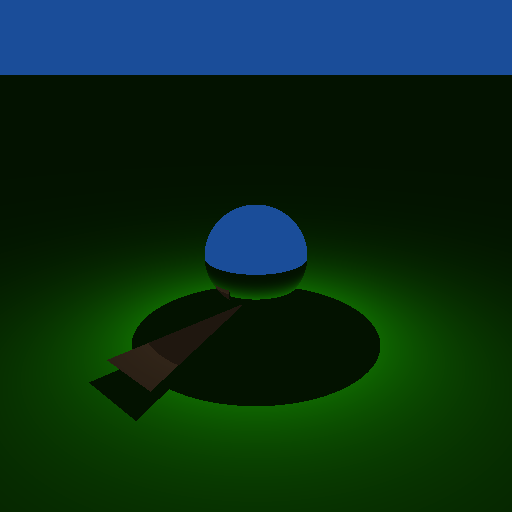
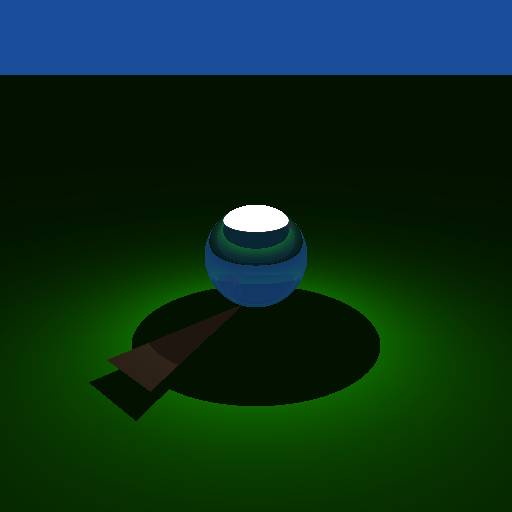
set worksheet deliverables

Changed region(s): [[0.375, 0.375, 0.625, 0.625]]

diff --git a/raytrace/RayTracer.cpp b/raytrace/RayTracer.cpp
@@ -105,7 +105,7 @@ bool RayTracer::trace_refracted(const Ray& in, const HitInfo& in_hit, Ray& out, 
   // Hints: (a) There is a refract function available in the OptiX math library.
   //        (b) Set out_hit.ray_ior and out_hit.trace_depth.
   //        (c) Remember that the function must handle total internal reflection.
-  R = 1;
+  R = 0.2f;
   return trace_refracted(in, in_hit, out, out_hit);
 }
 
